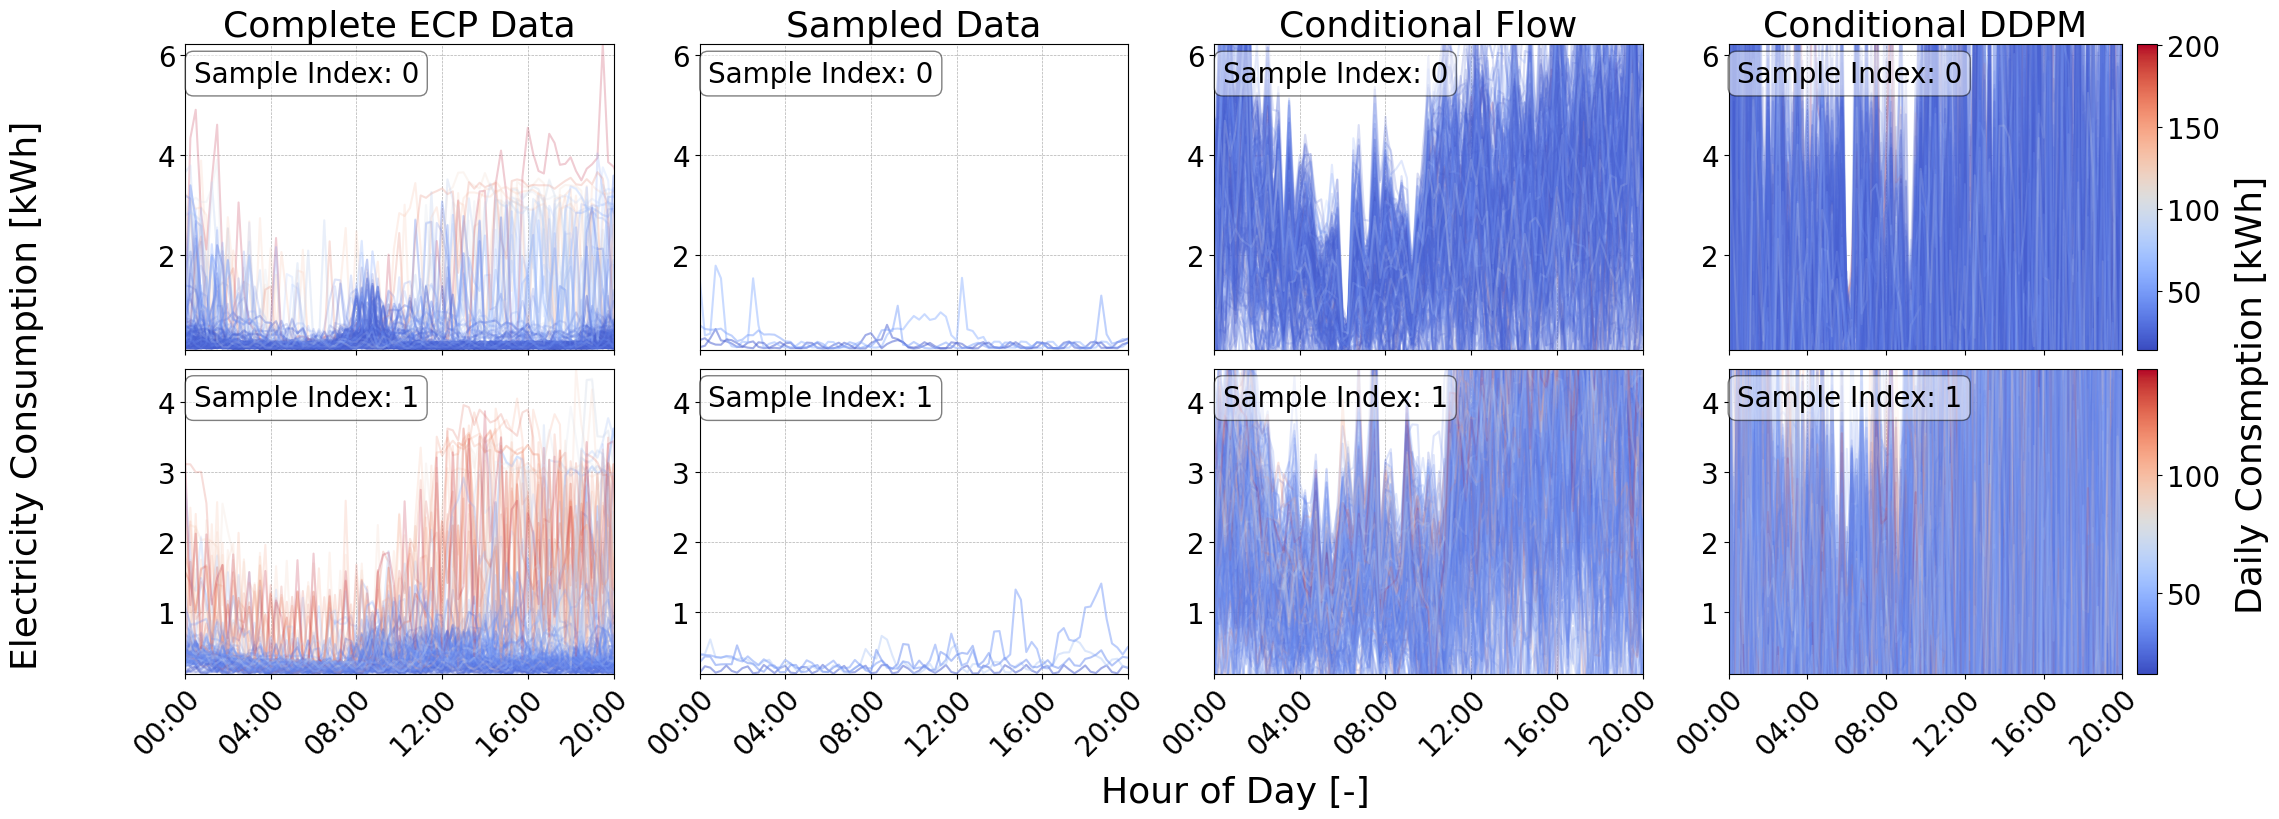
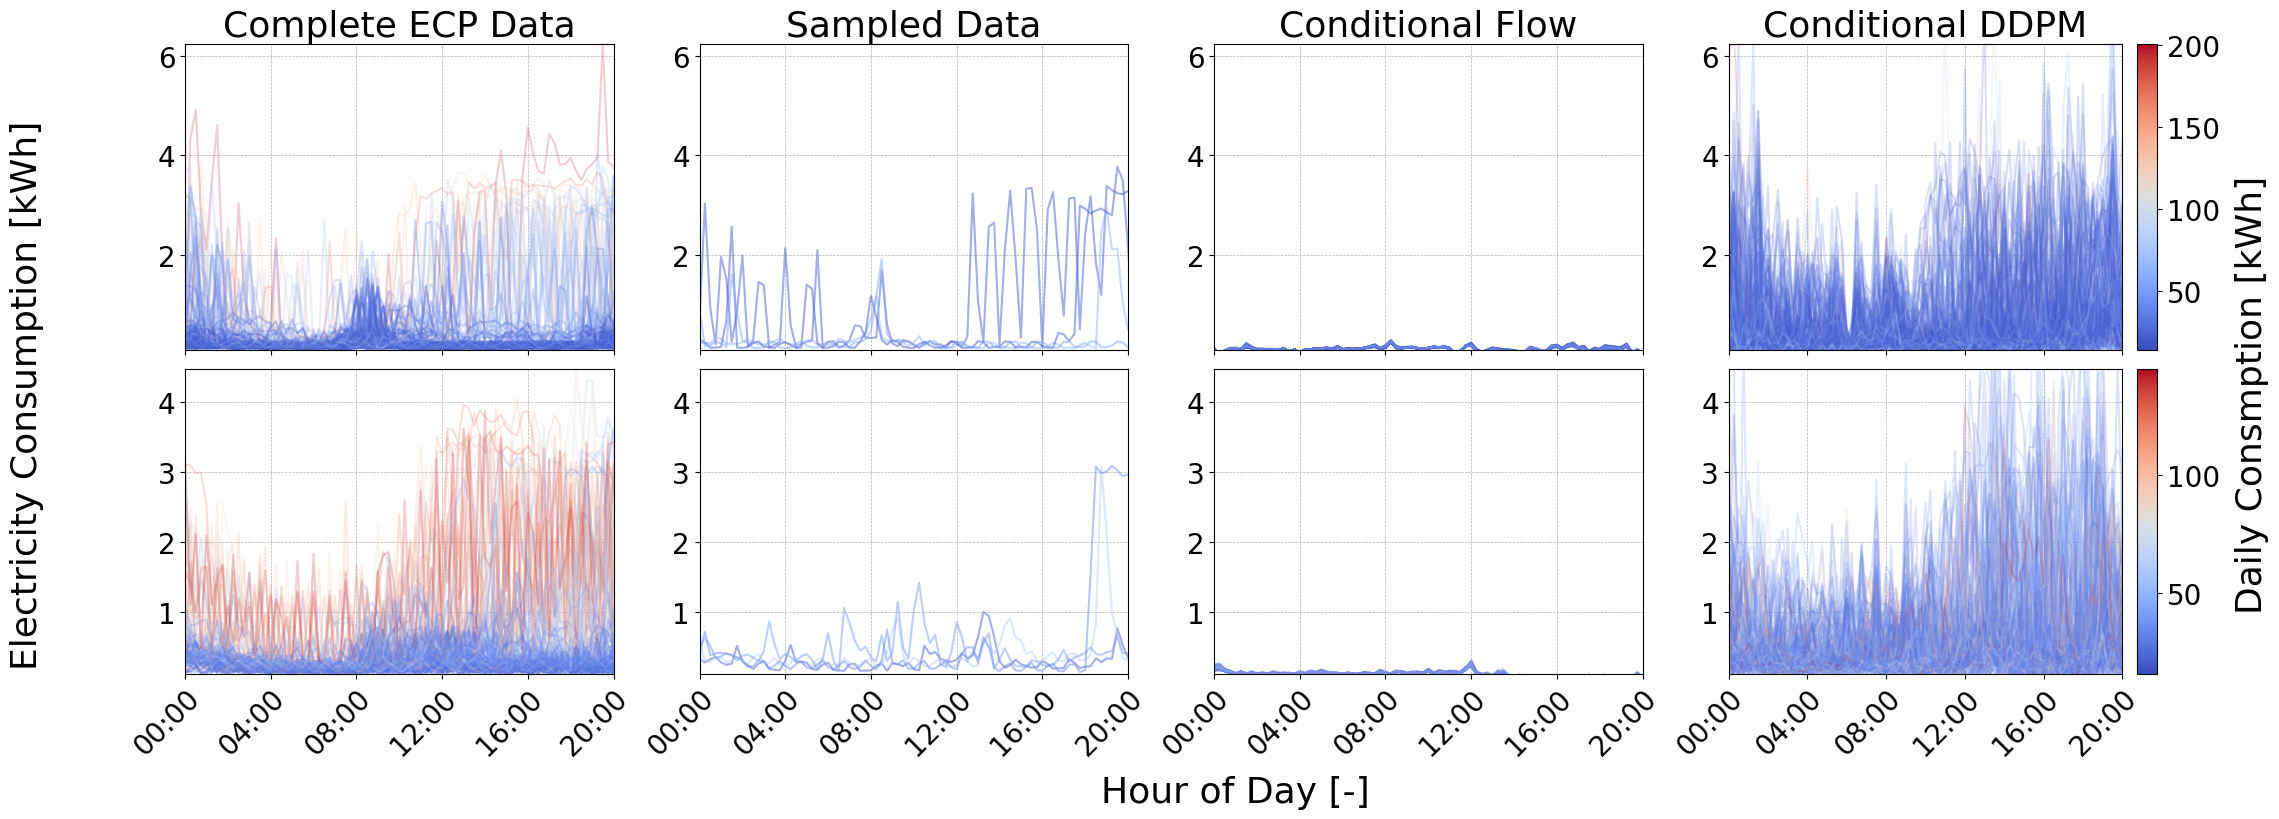
add comp

diff --git a/exp/exp_second_round/eva/evaconditionalgen/plot_result_ddpm_flow.py b/exp/exp_second_round/eva/evaconditionalgen/plot_result_ddpm_flow.py
@@ -9,7 +9,7 @@ from tqdm import tqdm
 import numpy as np  
 
 import exp_second_round.conditional_generativemodels.ddpm_model as ddpmmodel
-import exp_second_round.conditional_generativemodels.nf_model as nfmodel
+import exp_second_round.conditional_generativemodels.nf_model_lin as nfmodel
 from asset.dataloader import Dataloader_nolabel
 import asset.random_sampler as rs
 
@@ -34,44 +34,45 @@ print('lenthg of test data: ', dataset.__len__()*split_ratio[1])
 device = torch.device('cuda' if torch.cuda.is_available() else 'cpu')
 
 # define the hyperparameters
-random_sample_num_vae = 4
+random_sample_num = 4
 num_epochs = int(10000)
 input_shape=(250, 96)      # (C, L)
 hidden_dims= [32, 128, 256, 568]
 cond_dims = [32, 128, 256]
 
 # define the model ddpm
-ddpm = ddpmmodel.FFD_NL(in_channels=250, 
-                        hidden_channels=240,
-                        condition_channels=random_sample_num_vae,
-                        t_max=300,
-                        betas=ddpmmodel.linear_beta_schedule(300)).to(device)
+ddpm = ddpmmodel.FFD_NL(in_channels=1, 
+                        hidden_channels=340,
+                        condition_channels=random_sample_num,
+                        t_max=50,
+                        betas=ddpmmodel.linear_beta_schedule(50)).to(device)
 # load vae 4 shot
-if random_sample_num_vae == 4:
-    path = 'exp/exp_second_round/conditional_generativemodels/4shot/ddpm_710170_4shot.pt'
-elif random_sample_num_vae == 8:
+if random_sample_num == 4:
+    path = 'exp/exp_second_round/conditional_generativemodels/4shot/ddpm_703801_4shot.pt'
+elif random_sample_num == 8:
     path = 'exp/exp_second_round/conditional_generativemodels/8shot/ddpm_720250_16shot.pt'
-elif random_sample_num_vae == 16:
+elif random_sample_num == 16:
     path = 'exp/exp_second_round/conditional_generativemodels/16shot/ddpm_720250_16shot.pt'
-elif random_sample_num_vae ==32:
+elif random_sample_num ==32:
     path = 'exp/exp_second_round/conditional_generativemodels/32shot/ddpm_720250_16shot.pt'
     
 ddpm.load_state_dict(torch.load(path, map_location=device))
 
 # define the model flow
-flow = nfmodel.CNicemModel(input_c=250, 
-                            hidden_c=128, 
-                            condition_c=random_sample_num_vae, 
-                            n_layers=3).to(device)
+flow = nfmodel.CNicemModel(input_c=1, 
+                            hidden_c=198, 
+                            condition_c=random_sample_num*2,
+                            n_layers=3,
+                            scaler_dim=96).to(device)
 
 # load flow 4 shot
-if random_sample_num_vae == 4:
-    path = 'exp/exp_second_round/conditional_generativemodels/4shot/flow_885774_4shot.pt'
-elif random_sample_num_vae == 8:
+if random_sample_num == 4:
+    path = 'exp/exp_second_round/conditional_generativemodels/4shot/flow_748734_4shot.pt'
+elif random_sample_num == 8:
     path = 'exp/exp_second_round/conditional_generativemodels/8shot/flow_882414_8shot.pt'
-elif random_sample_num_vae == 16:
+elif random_sample_num == 16:
     path = 'exp/exp_second_round/conditional_generativemodels/16shot/flow_882414_16shot.pt'
-elif random_sample_num_vae ==32:
+elif random_sample_num ==32:
     path = 'exp/exp_second_round/conditional_generativemodels/32shot/flow_882414_32shot.pt'
 flow.load_state_dict(torch.load(path, map_location=device))
 
@@ -81,8 +82,6 @@ test_sample = dataset.load_test_data(batch_size, _sample_indx)  # (B,N,L)
 print('test sample shape: ', test_sample.shape)
 # Use 5 and 6 th sample for testing
 
-# test_sample = test_sample[_index, :, :]   # (B,N,L)
-# test_sample = test_sample[:, :, :-1]   # (B,N,L)
 test_sample = torch.tensor(test_sample, dtype=torch.float32).to(device)
 
 # normalize the input data
@@ -91,7 +90,7 @@ _test_max,_ = test_sample.max(axis=1, keepdim=True)
 test_sample = (test_sample - _test_min)/(_test_max-_test_min+1e-15)
 
 # random_sample a number between min_random_sample_num and random_sample_num
-_test_sample_part = rs.random_sample(test_sample , 'random', random_sample_num_vae)
+_test_sample_part = rs.random_sample(test_sample , 'random', random_sample_num)
 
 # move the data to the device
 _test_sample_part = _test_sample_part.to(device)
@@ -100,11 +99,15 @@ _test_sample_part = _test_sample_part.to(device)
 _test_sample_part = _test_sample_part.double()
 test_sample = test_sample.double()
 
+# reshape
+test_sample = test_sample[:, : ,:96].reshape(test_sample.shape[0]*250, 1, 96)
+_test_sample_part = _test_sample_part[:, : ,:96].unsqueeze(1).expand(-1, 250, -1, -1).reshape(-1, random_sample_num, 96)
+
 # -----------------------------------Plot the result-----------------------------------
 # ddpm eval
 ddpm.eval()
 
-recon = ddpmmodel.sampling(ddpm, _test_sample_part[:, : ,:-1])
+recon = ddpmmodel.sampling(ddpm, _test_sample_part)
 recon = recon.float()
 
 print(recon.shape, test_sample.shape, _test_sample_part.shape)
@@ -112,38 +115,41 @@ print(recon.shape, test_sample.shape, _test_sample_part.shape)
 # flow eval
 flow.eval()
 z = torch.randn(recon.shape, device=device)
-# print(z.shape, _test_sample_part[:, : ,:-1].shape)
-recon_flow, _ = flow.inverse(z, _test_sample_part[:, : ,:-1])
+_test_sample_part_flow =  _test_sample_part.reshape(_test_sample_part.shape[0], -1, 96//2)
+recon_flow, _ = flow.inverse(z, _test_sample_part_flow )
 
-
+print(recon_flow.shape)
 f_samples_list = []
 r_samples_list = []
 r_samples_part_list = []
 ddpm_sample_list = []
+
 for i in range(len(_sample_indx)):
     print('Processing sample: ', i/len(_sample_indx))
     # samples scaled
-    samples_ddpm = recon[i]
-    samples_partial = _test_sample_part[i]
-    samples_real = test_sample[i]
-    samples_flow = recon_flow[i]
+    samples_ddpm = recon[250*i:250*(i+1),0, :]
+    samples_partial = _test_sample_part[250*i,:,:]
+    samples_real = test_sample[250*i:250*(i+1),0, :]
+    samples_flow = recon_flow[250*i:250*(i+1), 0, :]
     # recover the samples
     _max = _test_max[i][:,:-1]
     _min = _test_min[i][:,:-1]
     
     samples_ddpm = samples_ddpm *  (_max - _min) + _min
     samples_flow = samples_flow *  (_max - _min) + _min
-    samples_partial = samples_partial[:,:-1] *  (_max - _min) + _min
-    samples_real = samples_real[:,:-1] *  (_max - _min) + _min
+    samples_partial = samples_partial *  (_max - _min) + _min
+    samples_real = samples_real *  (_max - _min) + _min
     
+    print('samples_ddpm shape: ', samples_ddpm.shape)
+    print('samples_flow shape: ', samples_flow.shape)
+    print('samples_partial shape: ', samples_partial.shape)
+    print('samples_real shape: ', samples_real.shape)
     # add the samples to the list
     r_samples_list.append(samples_real.cpu().detach().numpy())
     r_samples_part_list.append(samples_partial.cpu().detach().numpy())
     ddpm_sample_list.append(samples_ddpm.cpu().detach().numpy())
-    # t_samples_list.append(samples_gmm.cpu().detach().numpy())
-    f_samples_list.append(samples_flow.cpu().detach().numpy() * 0.5)
+    f_samples_list.append(samples_flow.cpu().detach().numpy())
     
-t_samples_list = r_samples_part_list
-save_path = f'exp/exp_second_round/conditional_generativemodels/{random_sample_num_vae}shot/plot/{random_sample_num_vae}_plot_ddpmflow.png'
+save_path = f'exp/exp_second_round/conditional_generativemodels/{random_sample_num}shot/plot/{random_sample_num}_plot_ddpmflow.png'
 eva_function.create_plots2(f_samples_list, r_samples_list, r_samples_part_list, ddpm_sample_list, save_path)
         

diff --git a/exp/exp_second_round/conditional_generativemodels/ddpm_train.py b/exp/exp_second_round/conditional_generativemodels/ddpm_train.py
@@ -35,11 +35,11 @@ def main():
     # model/data shapes
     N, L              = 250, 96        # (channels, length)
     random_sample_num = 4             # condition channels N'
-    T                 = 300            # diffusion steps
+    T                 = 50           # diffusion steps
     hidden_channels   = 340            # model hidden channels
     lr                = 2e-4
     weight_decay      = 1e-4
-    max_iters         = 100001
+    max_iters         = 10001
     log_every         = 200
 
     # I/O

diff --git a/exp/exp_second_round/conditional_generativemodels/ddpm_model.py b/exp/exp_second_round/conditional_generativemodels/ddpm_model.py
@@ -83,6 +83,7 @@ def sampling(model, cond):
 
     x_t = torch.randn(B, N, L, device=device)
     for t in reversed(range(T)):
+        print(f"Sampling timestep {t}/{T-1}")
         t_batch = torch.full((B,), t, device=device, dtype=torch.long)
         noise_pred = model(x_t, t_batch, cond=cond)
 
